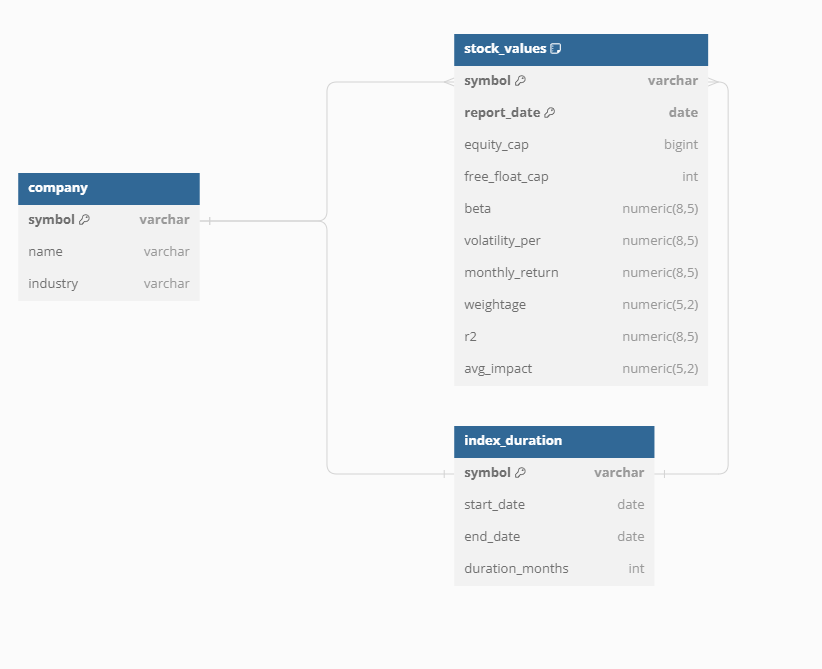
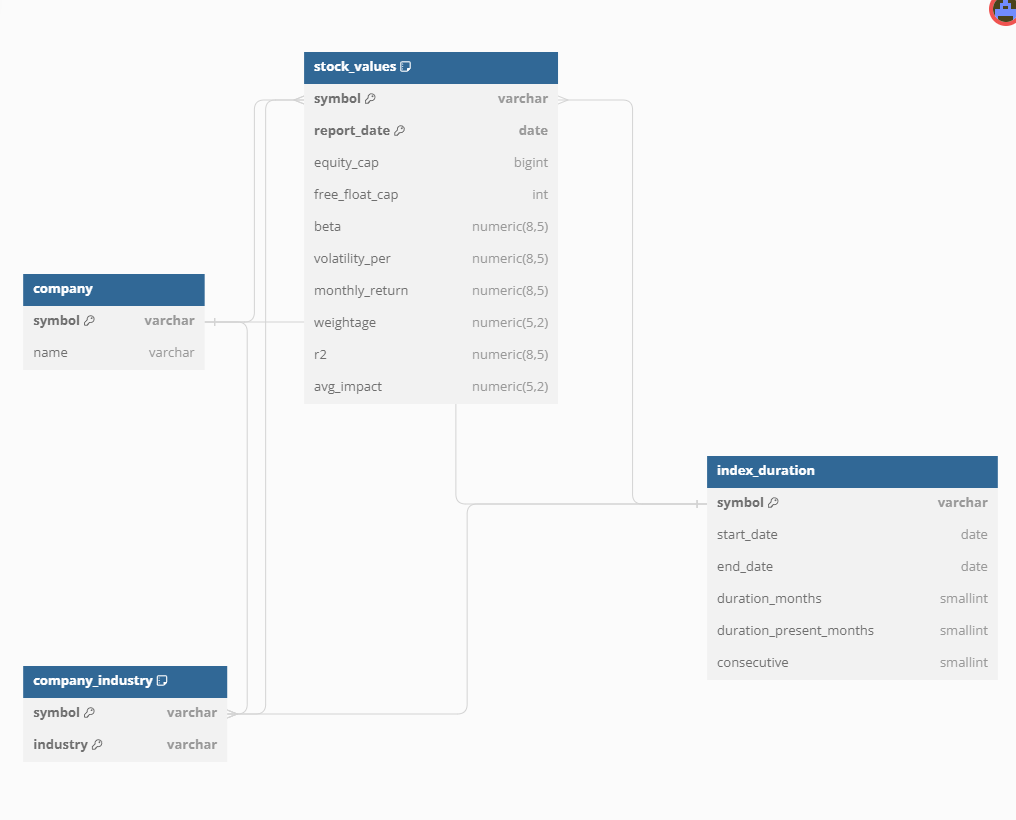
Updates

diff --git a/3/client.py b/3/client.py
@@ -49,7 +49,7 @@ activity_thread.start()
 # continually receive data from server
 # update persisted data
 while True:
-    # receive up to 1024 bytes from the server using recv()
+    # receive up to 1kb from the server using recv()
     # received data is decoded from bytes to string using utf-8
     data = client_socket.recv(1024).decode('utf-8')
 

diff --git a/1 and 2/README.md b/1 and 2/README.md
@@ -1,35 +1,61 @@
-### DB design:
-This design approach uses entity-relationship modelling to model the entities in the data. We have 4 categories:
-* Symbol data which uniquely identifies stocks
-* Reporting month, which reports the numerical data for a stock inside the Nifty50 index
-* Numerical data for each (stock, reporting_month)
-* String data (company name, industry). The relationship between industry to name is one-to-many
+### Project goals
+This goals of this project are to design a database to store the provided data, create tables and optimise them for the given queries, load the data, and run a few queries on it. I use a Postgresql as the database and sql/plsql to perform the operations, and python for the last query.
 
-### Transactions:
+### Problems with data
+The data has some inconsistencies and errors which need to be cleaned. I clean the data during ingestion to ensure that the loaded data is clean.
+* Duplicate rows
+There are duplicate rows which can be identified by multiple entries in the key (symbol, report_date)
+* Numeric data in different format
+Numbers are in different formats. 5000 might be represented as 5,000 or 5000.
+In some columns that are supposed to be integer values like free_float_cap, there are some numbers with decimal points.
+* Wrong format for a column
+In some columns which are supposed to be numerical, there are some values that are not numbers like `-`
+* Strings can be the same word in lowercase or uppercase
+* Some data is in the wrong column (ie:industry in the name column)
+![My Image](/images/image3.png "Schema")
+* Inconsistency in usage of `'&'` and `'AND'`
+![My Image](/images/image5.png "Schema")
+* Rows with missing values
+![My Image](/images/image2.png "Schema")
 
-The table is normalised to 3NF and meets the conditions: atomic values, no partial dependencies, no transitive dependencies. The string table and the duration table have symbol as the key, the numeric data as symbol and report_date as the key. 
-
-I created this table design while keeping in mind the loading process of the data. Stock_values table is updated every month and unless changes to ticker are made, there should be no scenario where data needs to be changed. Company table contains the string data, this table is updated only when a new stock which is not in the database is added.
-
-Company table is seperated from stock_values table to reduce data redundancy because they have a one to many relationship.
-
-Index_duration table is a seperate table to company table even though both have (symbol) as the primary key. The reason for this is because the addition of the duration_months value requires calculation at every update ```end_date - start_date```, there are additional risks of wrong data being added and needing to be cleaned, so it is seperated from company table. In the event the data in index_duration must be cleaned to improve data_integrity, we do not need to touch the company table.
-
+### Design:
 ![My Image](/images/image1.png "Schema")
 
-### Constraints and optimisations:
+Symbol is used as the primary key for company name and industry. These tables are separated to reduce data redundancy because symbol has a 1-1 relationship with name, and a 1-many relationship with industry (eg: GRASIM has industries in textiles and cement). Company has primary key on (symbol), and is used as the table by which other tables refer their foreign keys to. Company_industry has primary key on (symbol, industry) and foreign key on (symbol). There are indexes on their primary keys to improve query performance.
 
-There are primary and foreign key constraints on the tables as per the diagrams.
+Stock_values has the primary key(symbol, report_date) and stores all the numerical data because during loading there will always be numerical finance data added to the database, by consolidating all the numerical values into a table only 1 table needs to be updated. The data types of the table are chosen based on the storage requirements of each column's data to minimise storage space wastage. There is a primary key on (symbol, report_date), a foreign key on (symbol). To optimise performance of queries: the database is partitioned on report_date by year.
 
-Indexes and paritiions are added to the tables to facilitate better performance of the queries, while keeping in mind the overhead incurred whenever the tables are updated. Index added on (industry) to speed up grouping operations on indusstry. I considered added an index on (symbol, date) to speed up all time based queries (SMA, high, low, correlation), but the overhead is too high. I added a ranged partition by year on the reporting_date column, to improve performance when querying by year.
+I considered added an index on (symbol, date) to speed up all time based queries (SMA, high, low, correlation), but the overhead of maintaining this index is too high.
+
+Index_duration contains data on the duration that a stock has been inside the NIFTY index and has a primary key on (symbol). I store that starting date, ending date of a stock inside the index as well as the duration in months between these dates, the number months that it was part of the index with duration_present_months because stocks get placed in and taken out of the index, the last column indicates whether the stock was consecutively in the index (0 False, 1 True). I use smallint to store the month data. There is a foreign key on (symbol). If there are errors in the months calculation, we do not need to update the stock_values table.
+
+This design is normalised to 3NF by meeting the conditions: atomic values, no partial dependencies, no transitive dependencies.
 
 ### Database loading:
-The dataset contains missing rows in name and industry columns. It also contans rows where the industry value is in the name column. 
+My code can be run with `run.sh` which creates the tables, loads the data into a staging table, cleans the data, and loads into their respective tables.
 
-![My Image](/images/image2.png "Database")
+Data is loaded into staging with `load_stage.sql`
 
-When populating the company table, we must take care to ensure clean data is loaded. The initial scan will drop rows with missing data, lowercase the name and industry, extract the unique values. And if there are still multiple strings to choose from to fill Name and Industry, the value that matches the first two characters of the Ticker will be used for the name column.
+`load_main.sql`creates table company first since it is referred to be other tables.
 
-![My Image](/images/image3.png "Database")
+Company table:
+Rows with null in symbol or name are dropped and we assume that the right matching of symbol to name is in the remaining rows. Then I use fuzzy string mapping to match the closest name to the symbol to ensure correctness (look in image of TATAMOTORS above)
+- Eliminate rows with null values in the symbol or name columns.
+- Utilize fuzzy string matching (Levenshtein distance) and DISTINCT ON to find the closest symbol match for each name.
 
+Company_industry table:
+- Convert all first letters in every word of the industry column to uppercase and the rest to lowercase and reaplce '&' with 'AND'
 
+stock_values table:
+There are many values of (symbol,report_date) so using a distinct will not be scalable. Instead I use a window function with row_count to eliminate duplicate rows.
+- Replace all non-numerical values (e.g., '-') with NULL.
+- Convert numeric values with commas (e.g., 5,000) to integer format.
+- Create a cleaning function (convert_to_numeric) to handle numeric conversions for specific columns.
+
+index_duration table:
+Eliminate duplicate rows with the same approach as above.
+- Calculate the start and end dates, duration in months, and the count of present months for each symbol.
+- Determine the consecutiveness of the data based on the calculated values.
+- -1 is a possible value in `consistency` to detect calculate errors.
+
+The steps in the data loading were designed to ensure cleanliness of the loaded data in the destination table and includes considerations for scaiability by dropping duplicate rows with scalable methods. There were 50 duplicate rows detected and were not loaded in the postgresql table because of these methods.

diff --git a/3/README.md b/3/README.md
@@ -2,7 +2,7 @@
 This program simulates a client-server architecture that broadcasts and receives data in real time and is designed for multiple client connections, with multiple client-managed subscriptions to control what data the server broadcasts to the itself. I use Python to set up clients and server with a streaming TCP connection between them, with functionality to store data locally.
 
 ### Interface
-The data transferred between client are JSON strings seralised in UTF-8. They sent through the stream, and deseralised upon receiving. This data is used to communicate instructions or send quotation data in real-time. Because this is a stream, the TCP connection cannot preserve boundaries between strings, so a newline character is used to separate string, and parsing is done at the client.
+The client-server interface is implemented using sockets to establish communication between a server and multiple clients. The data transferred between client are JSON strings seralised in UTF-8, then sent through the stream and deseralised upon reaching. This data is used to communicate sumscribe/unsubscribe instructions or send quotation data in real-time. Because this is a stream, the TCP connection cannot preserve boundaries between strings, so a newline character is used to separate string, and parsing is done at the client.
 
 Client transmissions to server are a subscribe or unsubscribe action to a particular stock and will control what quotation data it will receive.
 ```python
@@ -22,13 +22,29 @@ Server transmissions to client are quotation updates on the stocks that a client
 }
 ```
 
-### Client
-The client has functions for sending requests for subscribing and unsubscribing to stocks to the server. Human activity is simulated in a function in a predetermined fashion. The client subscribes to Apple, waits 5 seconds, subscribes to Amazon, waits 5 seconds, then unsubscribes to Apple. The data received by the client is reflected in the terminal when running the client python script.
-
 ### Server
-The server is listening on a particular address and port for the clients to connect to. When a client makes a connection, it creates a new thread to handle the client's requests, this thread closes when the connection is closed or client disconnects. 
+The server script creates a socket and binds it to a specific host and port. It listens for incoming client connections and spawns a new thread to handle each connection. The server maintains a dictionary ```subscriptions``` that maps symbols to a list of client sockets subscribed to that symbol. The server has three main functions:
 
-The server stores data in local memory on what tickers are subscribed by which clients so that it only broadcasts quote updates if a client is currently subscribed to a stock (reduce unnecessary throughput). The data is updated and changed based on client's subs and unsubs, and the appropriate logic changes occur. Stock data is updated and broadcasted every 2 seconds to simulate live streaming data, and is sent to appropriate clients in the ```simulate_stock_updates()``` function.
+1. handle_client(client_socket): This function runs in a separate thread for each client. It continuously listens for messages from the client. If a client subscribes ('subscribe'), it adds the client's socket to the list of subscribers for that symbol. If a client unsubscribes ('unsubscribe'), it removes the client's socket from the list.
+
+2. broadcast_update(symbol, update): Sends stock updates to all clients subscribed to a particular symbol. If a client socket fails during the update broadcast, it removes the client from the subscriptions.
+
+3. simulate_stock_updates(): Simulates stock updates every 2 seconds for all subscribed symbols. The updates include random price data and a timestamp.
+
+The script also starts a thread ```update_thread``` to continuously simulate stock updates. The server runs indefinitely, accepting new client connections.
+
+### Client
+The client script connects to the server, creates a socket, and starts a thread (activity_thread) to simulate subscribe and unsubscribe actions. The client has three main functions:
+
+1. subscribe(symbol): Sends a subscribe request to the server, adding the symbol to the client's subscriptions.
+
+2. unsubscribe(symbol): Sends an unsubscribe request to the server, removing the symbol from the client's subscriptions.
+
+3. simulate_human_activity(): Simulates a sequence of subscribe and unsubscribe actions with a delay of 5 seconds between each action.
+
+The client continually receives data from the server, decodes it, and processes the updates. The received data is split into lines based on newline characters. The client then parses the JSON updates and updates its quotes dictionary to replicate the data to the local machine of the client.
+
+The client script runs indefinitely, listening for updates and processing them as they arrive.
 
 ### Improvements for server scalability
 I am currently using a Python dictionary data structure to store data on client subscriptions. This is not scalable on an enterprise level. But to do so I would use a low latency  database to store data on subscriptions to send the appropriate transmissions to each client. Assuming we want to save on throughput by only sending the stock data that clients want to subscribe to.

diff --git a/README.md b/README.md
@@ -1,8 +1,8 @@
-### olam-project-submission
+## olam-project-submission
 Readme documentation for the individual assignments are in each folder.
 
-#### Part 1 and 2 files
-##### Postgresql sql scripts:
+### Part 1 and 2 files
+#### Postgresql sql scripts:
 - create_tables.sql
 - load_stage.sql
 - load_main.sq
@@ -10,17 +10,20 @@ Readme documentation for the individual assignments are in each folder.
 #### Bash script to run data ingestion
 - run.sh
 
+#### Query files
+- queries_1-5.sql
+- query_5.ipynb
+
 #### Data files
 - nifty_data.xlsx
 - nifty_data.csv
 
-
-#### Part 3 files
-##### Server and client python scripts
+### Part 3 files
+#### Server and client python scripts
 - client.py
 - server.py
 
-##### Script to start server and 3 clients with subcribe and unsubscribe activity
+#### Script to start server and 3 clients with subcribe and unsubscribe activity
 - start.sh
 
 
